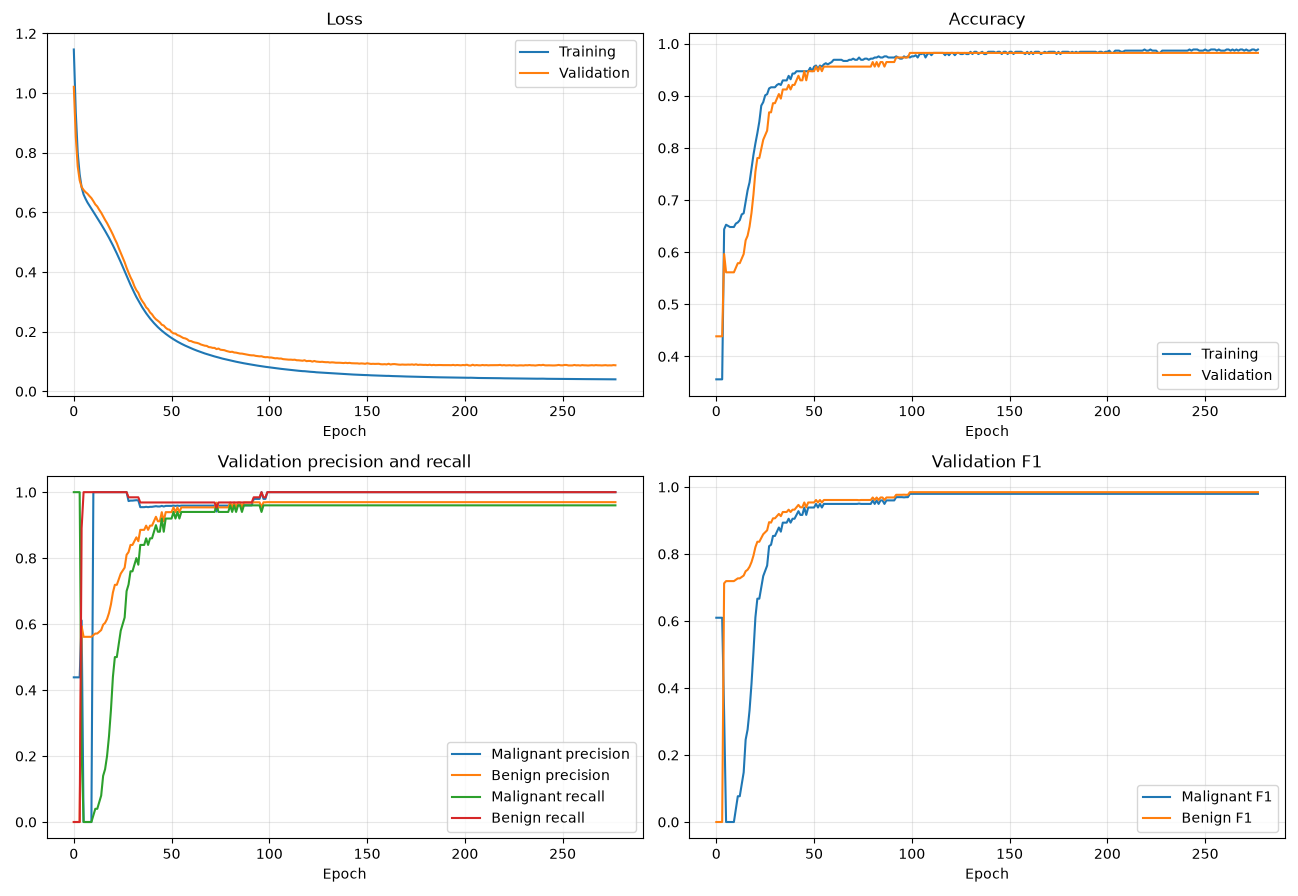
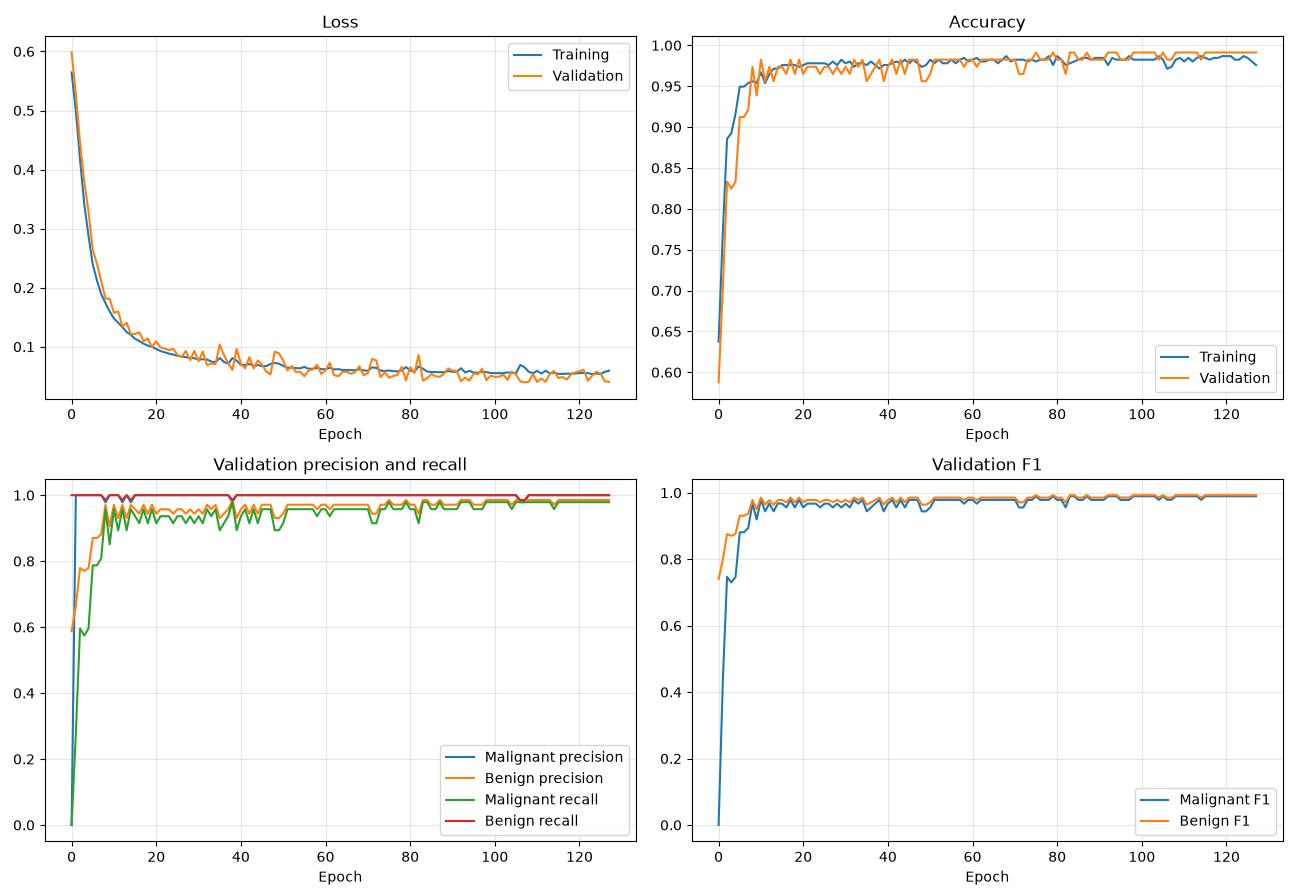
prediction file finished

diff --git a/arguments.py b/arguments.py
@@ -9,7 +9,7 @@ def parse_args():
         type=int,
         nargs="?",  # how many values '?' for 0 or 1, '+' for one or more
         required=False,
-        default=500,
+        default=250,
         help="Number of training epochs"
         )
 
@@ -27,7 +27,7 @@ def parse_args():
         type=int,
         nargs="*",
         required=False,
-        default=[10, 8],
+        default=[20, 20, 20],
         help="Number of hidden layers and their neurons"
         )
 
@@ -36,7 +36,7 @@ def parse_args():
         type=int,
         nargs="?",
         required=False,
-        default=16,
+        default=8,
         help="Size of the batches"
         )
 
@@ -54,7 +54,7 @@ def parse_args():
         type=int,
         nargs="?",
         required=False,
-        default=50,
+        default=20,
         help=""
         )
 

diff --git a/prediction.py b/prediction.py
@@ -17,9 +17,7 @@ def output_layer(y_true, data):
     eps = 1e-15
     p = np.clip(p, eps, 1 - eps)
     loss = -np.mean(y_true * np.log(p) + (1 - y_true) * np.log(1 - p))
-    # loss = 
-    print(loss)
-    # np.savetxt("predictions_result.csv", final_result, fmt="%s")
+    print(f"Loss: {loss:.4f}")
     return
 
 
@@ -45,7 +43,7 @@ def forward_propagation(weights_bias, x_valid: pd.DataFrame) -> None:
         z = np.dot(x, weights_bias['weights'][-1][neuron_index]) + weights_bias['bias'][-1][neuron_index]
         # sig = sigmoid(z)
         temp = np.column_stack((temp, z))
-    print(temp)
+    # print(temp)
     output_layer(y_true, temp)
 
 

diff --git a/process_dataset.py b/process_dataset.py
@@ -63,7 +63,7 @@ def create_training_dataset(dataset: pd.DataFrame) -> None:
 def split_dataset(dataset: pd.DataFrame) -> tuple[pd.DataFrame, pd.DataFrame]:
     """Shuffle a dataset and return random 80/20 training and validation splits."""
     dataset = dataset.sample(n=len(dataset))
-    data_80 = math.floor(len(dataset) * 0.8)
+    data_80 = math.floor(len(dataset) * 0.80)
     x_train = dataset[0:data_80]
     x_prediction = dataset[data_80:len(dataset)]
     return x_train, x_prediction

diff --git a/README.md b/README.md
@@ -18,10 +18,12 @@ directly to make the underlying mathematics explicit and easier to understand.
 
 The network consists of:
 
-- 30 input features;
+- 30 input features
 - one or more configurable fully connected hidden layers with sigmoid
-  activations;
-- a two-neuron output layer with softmax probabilities for `M` and `B`.
+  activations
+- a two-neuron output layer with softmax probabilities for `M` and `B`
+
+![Neural-network architecture](readme_images/neural_network.png)
 
 Training minimizes binary cross-entropy through backpropagation and updates the
 parameters with Adam. At the end of each epoch, the program reports training and
@@ -75,23 +77,23 @@ line:
 
 ```bash
 python3 training.py \
-  --epochs 100 \
-  --layers 16 8 \
-  --batch_size 16 \
+  --epochs 250 \
+  --layers 20 20 20 \
+  --batch_size 8 \
   --learning_rate 0.001 \
-  --patience 20
+  --patience 30
 ```
 
 Available options:
 
 | Option | Default | Description |
 | --- | --- | --- |
-| `--epochs` | `500` | Maximum number of training epochs |
+| `--epochs` | `250` | Maximum number of training epochs |
 | `--dataset` | `training_dataset.csv validation_dataset.csv` | Training and validation CSV paths, in that order |
-| `--layers` | `10 8` | Neuron count for each hidden layer |
-| `--batch_size` | `16` | Number of samples per parameter update |
+| `--layers` | `20 20 20` | Neuron count for each hidden layer |
+| `--batch_size` | `8` | Number of samples per parameter update |
 | `--learning_rate` | `0.001` | Adam learning rate |
-| `--patience` | `50` | Validation-loss window used for early stopping |
+| `--patience` | `30` | Validation-loss window used for early stopping |
 
 For example, use alternative prepared datasets with:
 
@@ -120,11 +122,11 @@ accuracy, per-class precision and recall, and per-class validation F1 score:
 python3 prediction.py validation_dataset.csv
 ```
 
-Prediction loads `weights_bias.json` from the current directory and creates
-`predictions_result.csv`. The output contains one predicted label (`M` or `B`)
-per line and has no header. The input may include a `diagnosis` column; it is
-ignored during inference. Otherwise, it must contain the same 30 normalized
-feature columns, in the same order used for training.
+Prediction loads `weights_bias.json` from the current directory, runs a forward
+pass on a labeled dataset, and prints its mean cross-entropy loss. The input
+must include the `diagnosis` column and the same 30 normalized feature columns,
+in the same order used for training. It does not currently write predicted
+labels to a file.
 
 ## Dataset format
 
@@ -147,7 +149,6 @@ concavity, concave points, symmetry, and fractal dimension.
 | `training_dataset.csv` | `process_dataset.py` | Normalized training split |
 | `validation_dataset.csv` | `process_dataset.py` | Normalized validation split |
 | `weights_bias.json` | `training.py` | Weights and biases from the best validation epoch |
-| `predictions_result.csv` | `prediction.py` | Predicted class labels |
 
 ## Project structure
 
@@ -155,7 +156,7 @@ concavity, concave points, symmetry, and fractal dimension.
 | --- | --- |
 | `process_dataset.py` | Loads, splits, and normalizes the raw dataset |
 | `training.py` | Forward pass, backpropagation, Adam updates, and training loop |
-| `prediction.py` | Loads a saved model and performs inference |
+| `prediction.py` | Loads a saved model and reports loss for a labeled dataset |
 | `Layer.py` | Stores layer parameters, activations, gradients, and Adam state |
 | `TrainingData.py` | Holds datasets, layers, metrics, and early-stopping state |
 | `stats.py` | Computes and plots evaluation metrics |
@@ -165,7 +166,7 @@ concavity, concave points, symmetry, and fractal dimension.
 ## Notes
 
 - Static type checking was performed with [mypy](https://www.mypy-lang.org/).
-- Model parameters and predictions are overwritten on each new run.
+- Model parameters are overwritten on each new training run.
 - Data splitting and weight initialization are unseeded, so results vary between
   runs.
 
